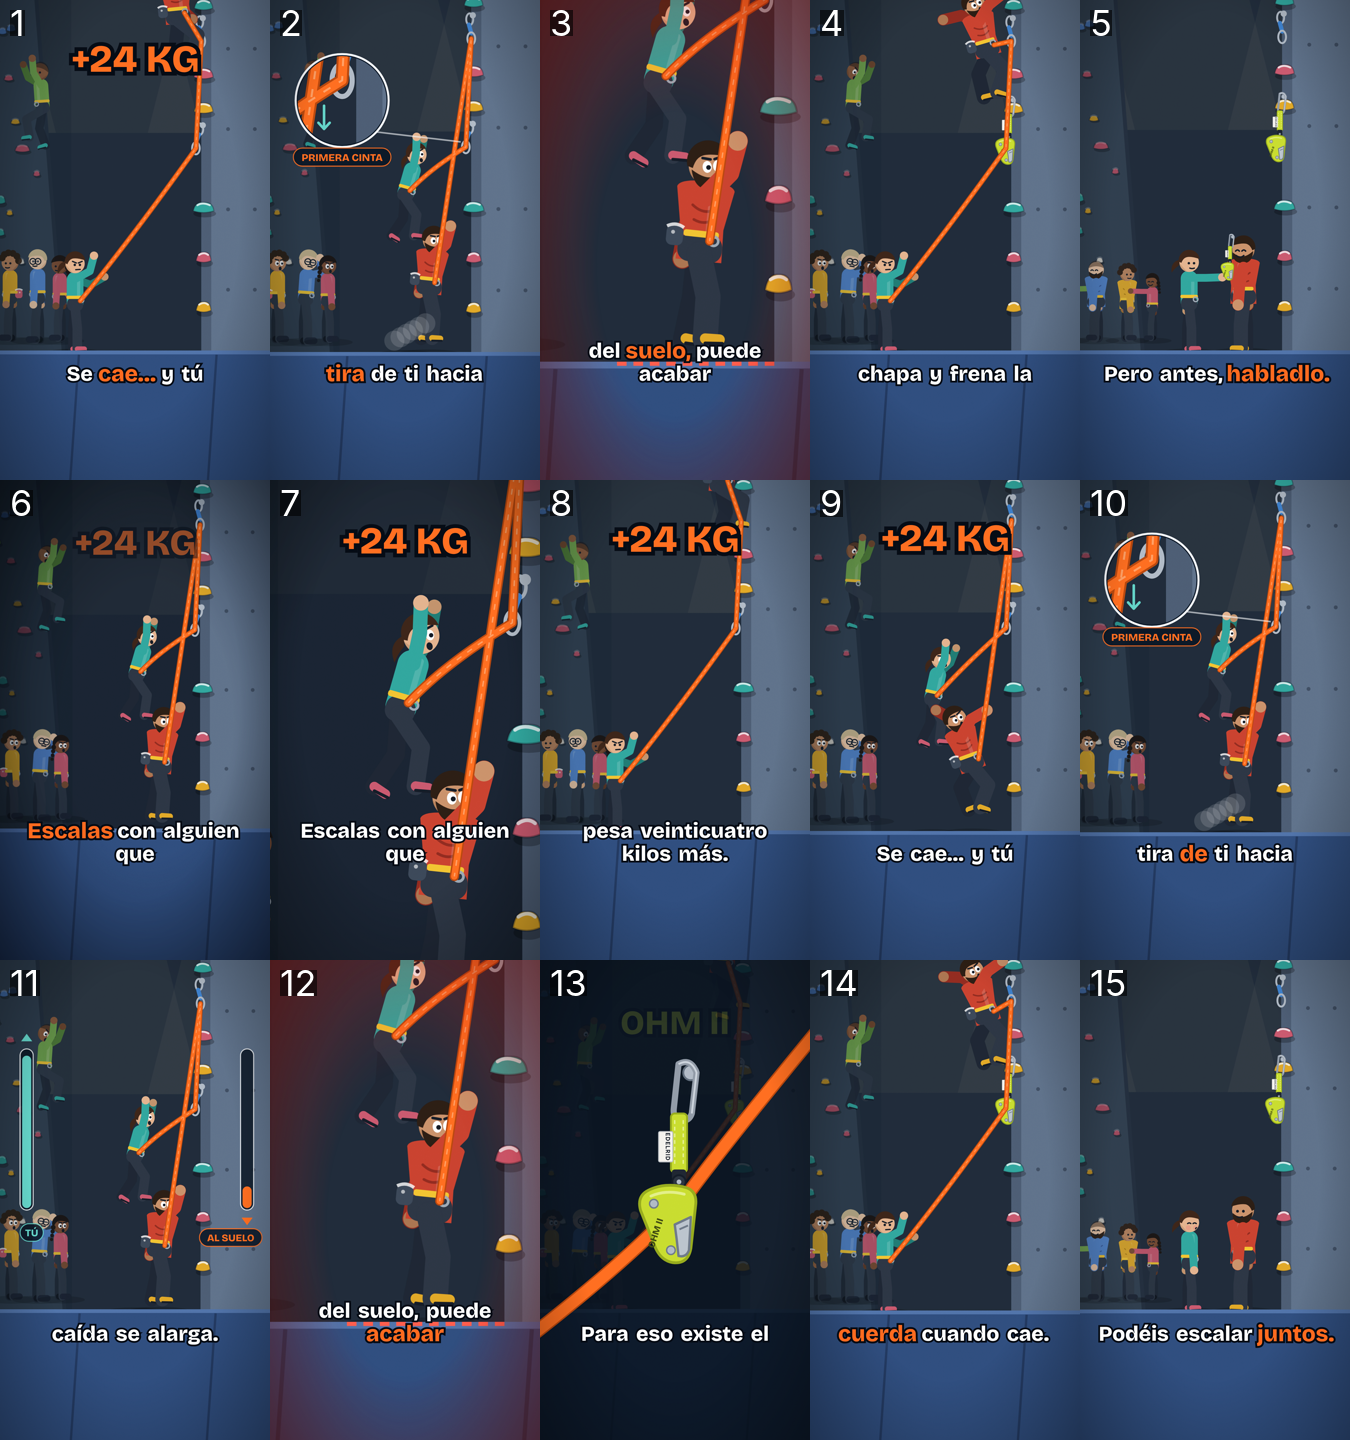
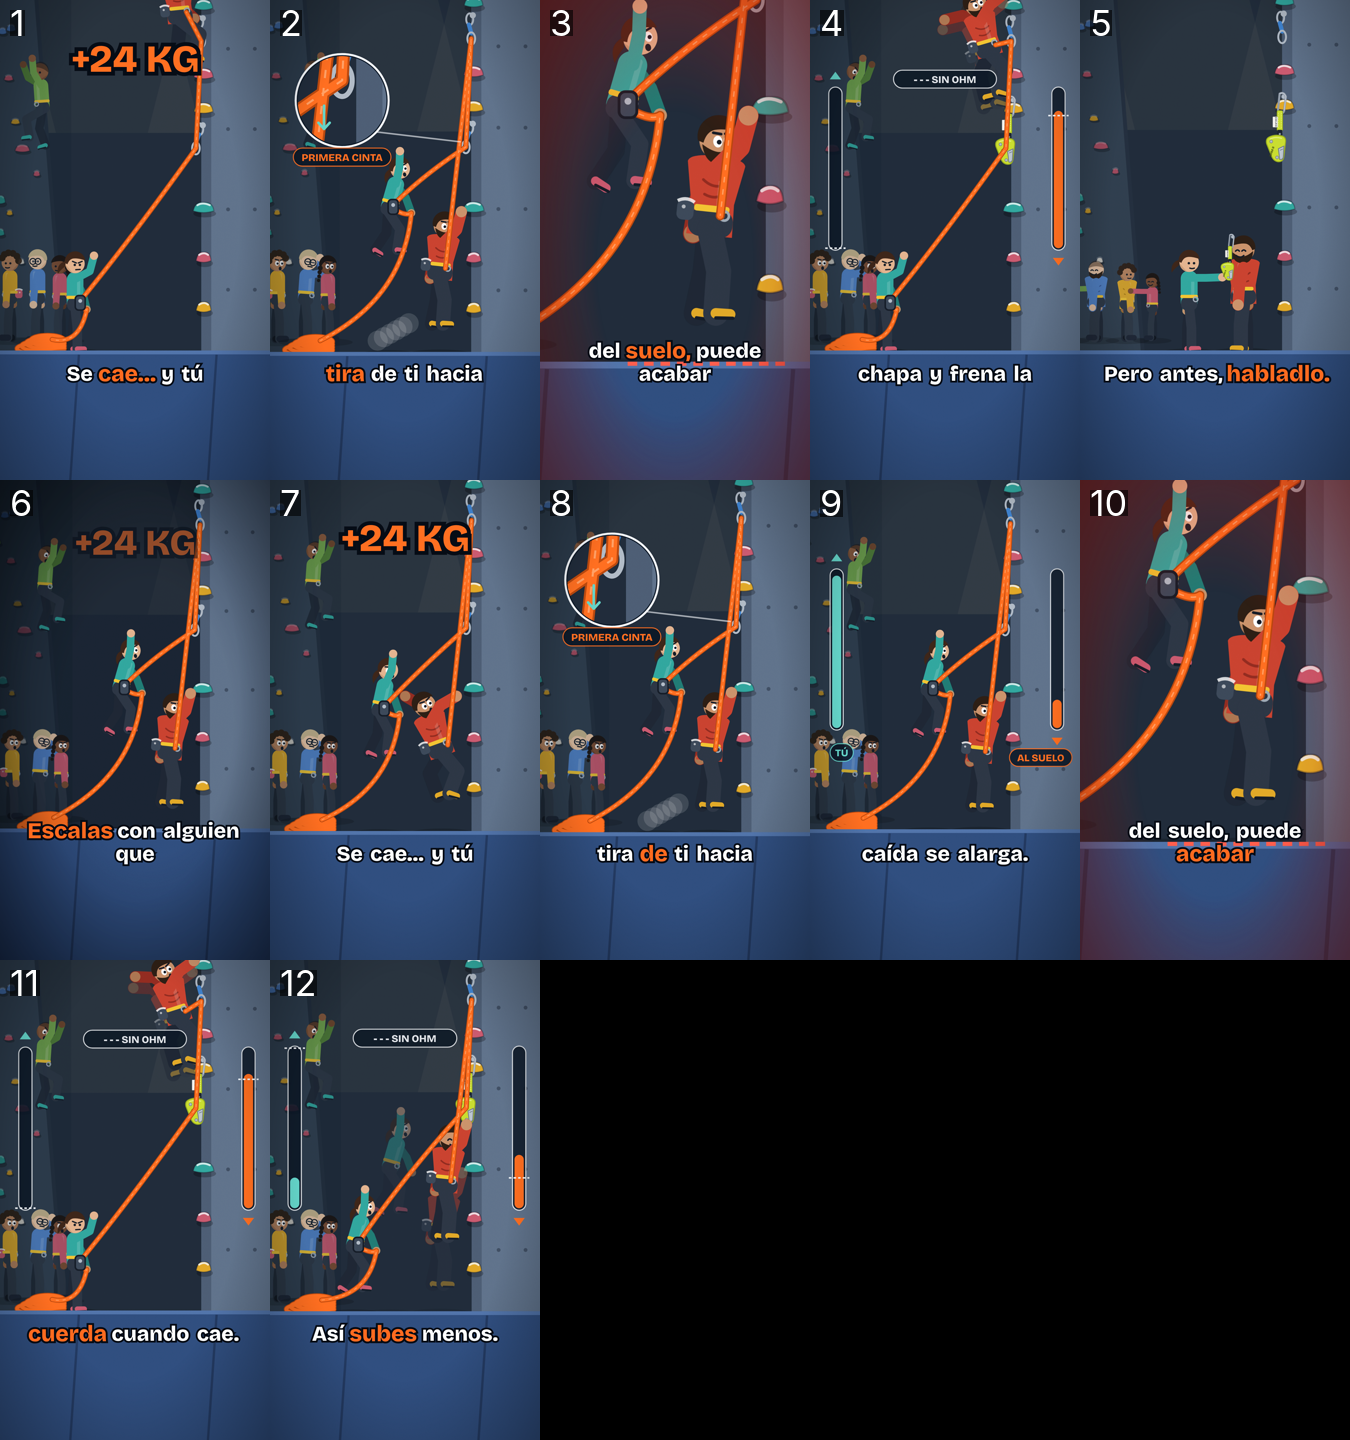
E49: cuerda de freno con madeja y mano derecha; comparación con/sin OHM II (fantasma + medidores)
Claude-Session: https://claude.ai/code/session_012ey2pSMgWmpeVZguhf97UZ

diff --git a/src/historias/Asegurador/comun.tsx b/src/historias/Asegurador/comun.tsx
@@ -8,7 +8,7 @@ import { Cuerda } from "../Pegue/comun";
 export { C, Camara, Svg, clamp, type P } from "../Pegue/comun";
 export { Rotulo, Chip, ei, salida } from "../Pump/comun";
 
-export const SUELO = 1330, PARED = 800;
+export const SUELO = 1330, PARED = 800, MADEJA = 380;
 export const CINTA1 = { x: 786, y: 800 }, CINTA2 = { x: 800, y: 520 }; // punto por donde pasa la cuerda
 /** Encuadre: plano medio (suelo → primera cinta), personajes grandes. Todo lo del mundo va dentro. */
 export const ENC = { s: 1.5, cx: 640, cy: 1000, tx: 560, ty: 900 };
@@ -30,12 +30,12 @@ export const estado = (k: number, ohm = false) => {
   const caida = Easing.in(Easing.quad)(cl(k / 0.62));
   const asienta = cl((k - 0.62) / 0.38);
   const rebote = asienta > 0 ? Math.sin(asienta * Math.PI * 2.2) * 26 * (1 - asienta) : 0;
-  const yFin = ohm ? 1010 : 1172;
+  const yFin = ohm ? 1010 : 1135;
   const hy = k < 0.62 ? lerp(430, yFin, caida) : yFin + rebote;
-  const hx = lerp(752, ohm ? 720 : 690, cl(k * 1.4));
+  const hx = lerp(752, ohm ? 730 : 718, cl(k * 1.4));
   const u = Easing.out(Easing.cubic)(cl((k - 0.42) / 0.5));
-  const my = lerp(1216, ohm ? 1168 : 928, u) + (ohm ? 0 : -rebote * 0.6);
-  const mx = lerp(470, ohm ? 492 : 628, u);
+  const my = lerp(1216, ohm ? 1168 : 965, u) + (ohm ? 0 : -rebote * 0.6);
+  const mx = lerp(470, ohm ? 492 : 585, u);
   return { hx, hy, mx, my, u, caida: cl(k / 0.62) };
 };
 
@@ -106,35 +106,67 @@ export const Ohm: React.FC<{ x: number; y: number; s?: number; muerde?: number }
 );
 
 /* ---- personajes ---- */
-const ANG_ASEGURA: Partial<Angulos> = { brazoA: [118, 165], brazoB: [70, 120] };
+
 
 export const Ella: React.FC<{ x: number; y: number; u: number; cara: Cara }> = ({ x, y, u, cara }) => {
-  const vuela: Partial<Angulos> = { torso: 16 * u, cabeza: -24 * u, brazoA: [lerp(118, 168, u), lerp(165, 178, u)], brazoB: [lerp(70, 150, u), lerp(120, 170, u)], piernaA: [lerp(6, 34, u), lerp(0, -8, u)], piernaB: [lerp(-6, -4, u), lerp(0, -34, u)] };
+  const vuela: Partial<Angulos> = { torso: 16 * u, cabeza: -24 * u, brazoA: [lerp(118, 168, u), lerp(165, 178, u)], brazoB: [lerp(28, 36, u), lerp(14, 20, u)], piernaA: [lerp(6, 34, u), lerp(0, -8, u)], piernaB: [lerp(-6, -4, u), lerp(0, -34, u)] };
   return <Escalador x={x} y={y} quien="simon" pose="pie" angulos={vuela} cara={cara} s={ELLA.s} aspecto={ELLA.aspecto} pies="#C8566B" sombra={SUELO + 6} />;
 };
 export const El: React.FC<{ x: number; y: number; pose: NombrePose; poseB?: NombrePose; t?: number; cara: Cara; rot?: number }> = ({ x, y, pose, poseB, t, cara, rot = 0 }) => (
   <Escalador x={x} y={y} quien="joe" pose={pose} poseB={poseB} t={t} cara={cara} s={EL.s} aspecto={EL.aspecto} cuerpo={EL.cuerpo} pies="#E0A526" bolsa="#3A4656" rot={rot} sombra={y > 1100 ? SUELO + 6 : undefined} />
 );
 
+const rad = (g: number) => (g * Math.PI) / 180;
+/** Mano trasera (derecha) de Ella en coordenadas de mundo, misma geometría que Escalador. */
+export const manoFreno = (x: number, y: number, u: number) => {
+  const s = ELLA.s, torso = 16 * u, a0 = lerp(28, 36, u), a1 = lerp(14, 20, u);
+  const hx = Math.sin(rad(180 - torso)) * 88, hy = Math.cos(rad(180 - torso)) * 88;
+  const ex = hx + Math.sin(rad(a0)) * 52, ey = hy + Math.cos(rad(a0)) * 52;
+  return [x + (ex + Math.sin(rad(a1)) * 50) * s, y + (ey + Math.cos(rad(a1)) * 50) * s] as const;
+};
+/** Aparato de aseguramiento en el arnés. */
+export const Aparato: React.FC<{ x: number; y: number }> = ({ x, y }) => (
+  <g transform={`translate(${x} ${y})`}>
+    <rect x={-13} y={-20} width={26} height={38} rx={9} fill="#3A4656" stroke="#141B26" strokeWidth={4} />
+    <circle cx={0} cy={-6} r={5} fill="#AEB8C4" />
+  </g>
+);
+/** Cuerda sobrante en el suelo (madeja). */
+export const Madeja: React.FC<{ x: number }> = ({ x }) => (
+  <g>
+    {[0, 1, 2, 3].map((i) => <ellipse key={i} cx={x + i * 6} cy={SUELO - 6 - i * 7} rx={62 - i * 6} ry={14} fill="none" stroke="#B8460E" strokeWidth={13} />)}
+    {[0, 1, 2, 3].map((i) => <ellipse key={i} cx={x + i * 6} cy={SUELO - 6 - i * 7} rx={62 - i * 6} ry={14} fill="none" stroke="#FF6A1F" strokeWidth={9} />)}
+  </g>
+);
 /** Punto del arnés (anilla) a partir de la cadera. */
 export const arnes = (x: number, y: number, s: number) => [x + 16 * s, y - 20 * s] as const;
 
 /** Escena completa de la caída. */
-export const Caida: React.FC<{ k: number; ohm?: boolean; ohmVisible?: number; caraElla?: Cara; caraEl?: Cara; brillo?: number; publico?: React.ReactNode }> = ({ k, ohm = false, ohmVisible, caraElla, caraEl, brillo = 0, publico }) => {
+export const Caida: React.FC<{ k: number; ohm?: boolean; ohmVisible?: number; caraElla?: Cara; caraEl?: Cara; brillo?: number; publico?: React.ReactNode; fantasma?: number }> = ({ k, ohm = false, ohmVisible, caraElla, caraEl, brillo = 0, publico, fantasma = 0 }) => {
   const st = estado(k, ohm);
   const [ax, ay] = arnes(st.mx, st.my, ELLA.s), [bx, by] = arnes(st.hx, st.hy, EL.s);
   const holgura = (1 - st.u) * 40;
   const dCuerda = `M${ax} ${ay} Q${(ax + CINTA1.x) / 2 - 20} ${(ay + CINTA1.y) / 2 + holgura} ${CINTA1.x} ${CINTA1.y} L${CINTA2.x} ${CINTA2.y} L${bx} ${by}`;
   const poseEl: NombrePose = k < 0.05 ? "escalando" : "cayendo";
+  const [fx, fy] = manoFreno(st.mx, st.my, st.u);
+  const dFreno = `M${ax} ${ay + 10} Q${(ax + fx) / 2 + 10} ${ay + 30} ${fx} ${fy} Q${fx - 20} ${(fy + SUELO) / 2 + 40} ${MADEJA + 30} ${SUELO - 30}`;
+  const g = estado(k, false);
   return (
     <g>
       {publico}
       <ParedCuerda ohm={ohmVisible ?? (ohm ? 1 : 0)} />
+      <Madeja x={MADEJA} />
+      {fantasma > 0 && <g opacity={fantasma * 0.42}>
+        <Ella x={g.mx} y={g.my} u={g.u} cara="miedo" />
+        {k >= 0.62 ? <El x={g.hx} y={g.hy} pose="colgado" cara="miedo" /> : <El x={g.hx} y={g.hy} pose="escalando" poseB="cayendo" t={Math.min(1, k * 3)} cara="miedo" />}
+      </g>}
       <Ella x={st.mx} y={st.my} u={st.u} cara={caraElla ?? (st.u > 0.3 ? "miedo" : "serio")} />
       {k < 0.62
         ? <El x={st.hx} y={st.hy} pose="escalando" poseB={poseEl} t={Math.min(1, k * 3)} cara={caraEl ?? (k > 0.05 ? "miedo" : "esfuerzo")} />
         : <El x={st.hx} y={st.hy} pose="colgado" cara={caraEl ?? (ohm ? "alivio" : "miedo")} />}
+      <Cuerda d={dFreno} w={9} />
       <Cuerda d={dCuerda} w={9} />
+      <Aparato x={ax} y={ay + 6} />
       {brillo > 0 && <path d={dCuerda} stroke="#FFE2C8" strokeWidth={22} fill="none" strokeLinecap="round" strokeDasharray="90 2400" strokeDashoffset={-brillo * 1500} opacity={0.85} />}
       {/* suelo (colchoneta) */}
       <path d={`M-300 ${SUELO + 4} L1400 ${SUELO + 4} L1400 2400 L-300 2400 Z`} fill="#2E4B7A" />

diff --git a/src/historias/Asegurador/Freno.tsx b/src/historias/Asegurador/Freno.tsx
@@ -1,7 +1,8 @@
 // 4 · Rebobinado ◀◀ → primer plano del OHM II (reconocible) → la misma caída con el OHM II: muerde, chispa, ella apenas sube; el público respira.
 import React from "react";
 import { AbsoluteFill, Easing, useCurrentFrame } from "remotion";
-import { C, CINTA1, Caida, Camara, Encuadre, Fondo, Ohm, Publico, Rotulo, Svg, ei, estado, type P } from "./comun";
+import { C, CINTA1, Caida, Camara, Chip, Encuadre, Fondo, Ohm, Publico, Rotulo, Svg, ei, estado, SUELO, type P } from "./comun";
+import { Barra } from "./Medidores";
 
 const Rebobina: React.FC<{ o: number }> = ({ o }) => (
   <g opacity={o}>
@@ -24,8 +25,13 @@ export const Freno: React.FC<P> = ({ d, pal }) => {
     <Camara d={d} empuje={0.03} entrada={false}>
       <Svg>
         <Encuadre><Fondo />
-        <Caida k={k} ohm={!rebob} publico={<Publico r={f >= fMenos ? "alivio" : "miedo"} />} />
+        <Caida k={k} ohm={!rebob} fantasma={!rebob && !primer ? 1 : 0} publico={<Publico r={f >= fMenos ? "alivio" : "miedo"} />} />
         {chispa > 0 && [0, 1, 2, 3, 4, 5, 6].map((i) => { const a = (i / 7) * Math.PI * 2; const r1 = 20 + (1 - chispa) * 30, r2 = r1 + 26; return <path key={i} d={`M${CINTA1.x + Math.cos(a) * r1} ${CINTA1.y + Math.sin(a) * r1} L${CINTA1.x + Math.cos(a) * r2} ${CINTA1.y + Math.sin(a) * r2}`} stroke="#FFF3C4" strokeWidth={6} strokeLinecap="round" opacity={chispa} />; })}</Encuadre>
+        {!rebob && !primer && (() => { const n = estado(k, false), lejos = (y: number) => Math.max(0, (SUELO - 30 - y) / (SUELO - 30 - 430)); return <>
+          <Barra x={110} v={st.u * ((1216 - 1168) / (1216 - 965))} ref0={n.u} col="#5FD1C5" arriba />
+          <Barra x={985} v={lejos(st.hy)} ref0={lejos(n.hy)} col="#FF6A1F" arriba={false} />
+          <Chip x={540} y={330} t="- - -  SIN OHM" col="#F4F7FA" o={0.9} />
+        </>; })()}
         {rebob && <Rebobina o={ei(f, 0, 4, 0, 1)} />}
       </Svg>
       {primer && <AbsoluteFill style={{ background: "rgba(8,17,29,0.86)" }}>

diff --git a/src/historias/Asegurador/Medidores.tsx b/src/historias/Asegurador/Medidores.tsx
@@ -4,10 +4,11 @@ import React from "react";
 import { AbsoluteFill, Easing, useCurrentFrame } from "remotion";
 import { Caida, Camara, Chip, Encuadre, Fondo, Publico, Svg, aPantalla, ei, estado, SUELO, EL, type P } from "./comun";
 
-const Barra: React.FC<{ x: number; v: number; col: string; arriba: boolean }> = ({ x, v, col, arriba }) => (
+export const Barra: React.FC<{ x: number; v: number; col: string; arriba: boolean; ref0?: number }> = ({ x, v, col, arriba, ref0 }) => (
   <g>
     <rect x={x - 26} y={360} width={52} height={640} rx={26} fill="#0B1624" opacity={0.85} stroke="#F4F7FA" strokeWidth={4} />
     <rect x={x - 18} y={368 + 624 * (1 - v)} width={36} height={624 * v} rx={18} fill={col} />
+    {ref0 !== undefined && <path d={`M${x - 40} ${368 + 624 * (1 - ref0)} L${x + 40} ${368 + 624 * (1 - ref0)}`} stroke="#F4F7FA" strokeWidth={6} strokeDasharray="10 8" />}
     <path d={arriba ? `M${x - 22} 330 L${x} 300 L${x + 22} 330 Z` : `M${x - 22} 1030 L${x} 1060 L${x + 22} 1030 Z`} fill={col} />
   </g>
 );
